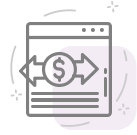
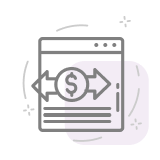
padroniza tamanhos das imagens para o Ajuda

diff --git a/public/assets/stylesheets/helpscout-custom.css b/public/assets/stylesheets/helpscout-custom.css
@@ -23,7 +23,11 @@ body {
 	margin: 0 20px 30px 0;
 	padding: 210px 14px 20px;
 	background-repeat: no-repeat;
-	background-position: center 70px;
+	background-position: center 40px;
+}
+
+.category-list .category#category-214, .category-list .category#category-214:hover {
+	background-position: center 30px;
 }
 
 .navbar .brand {
